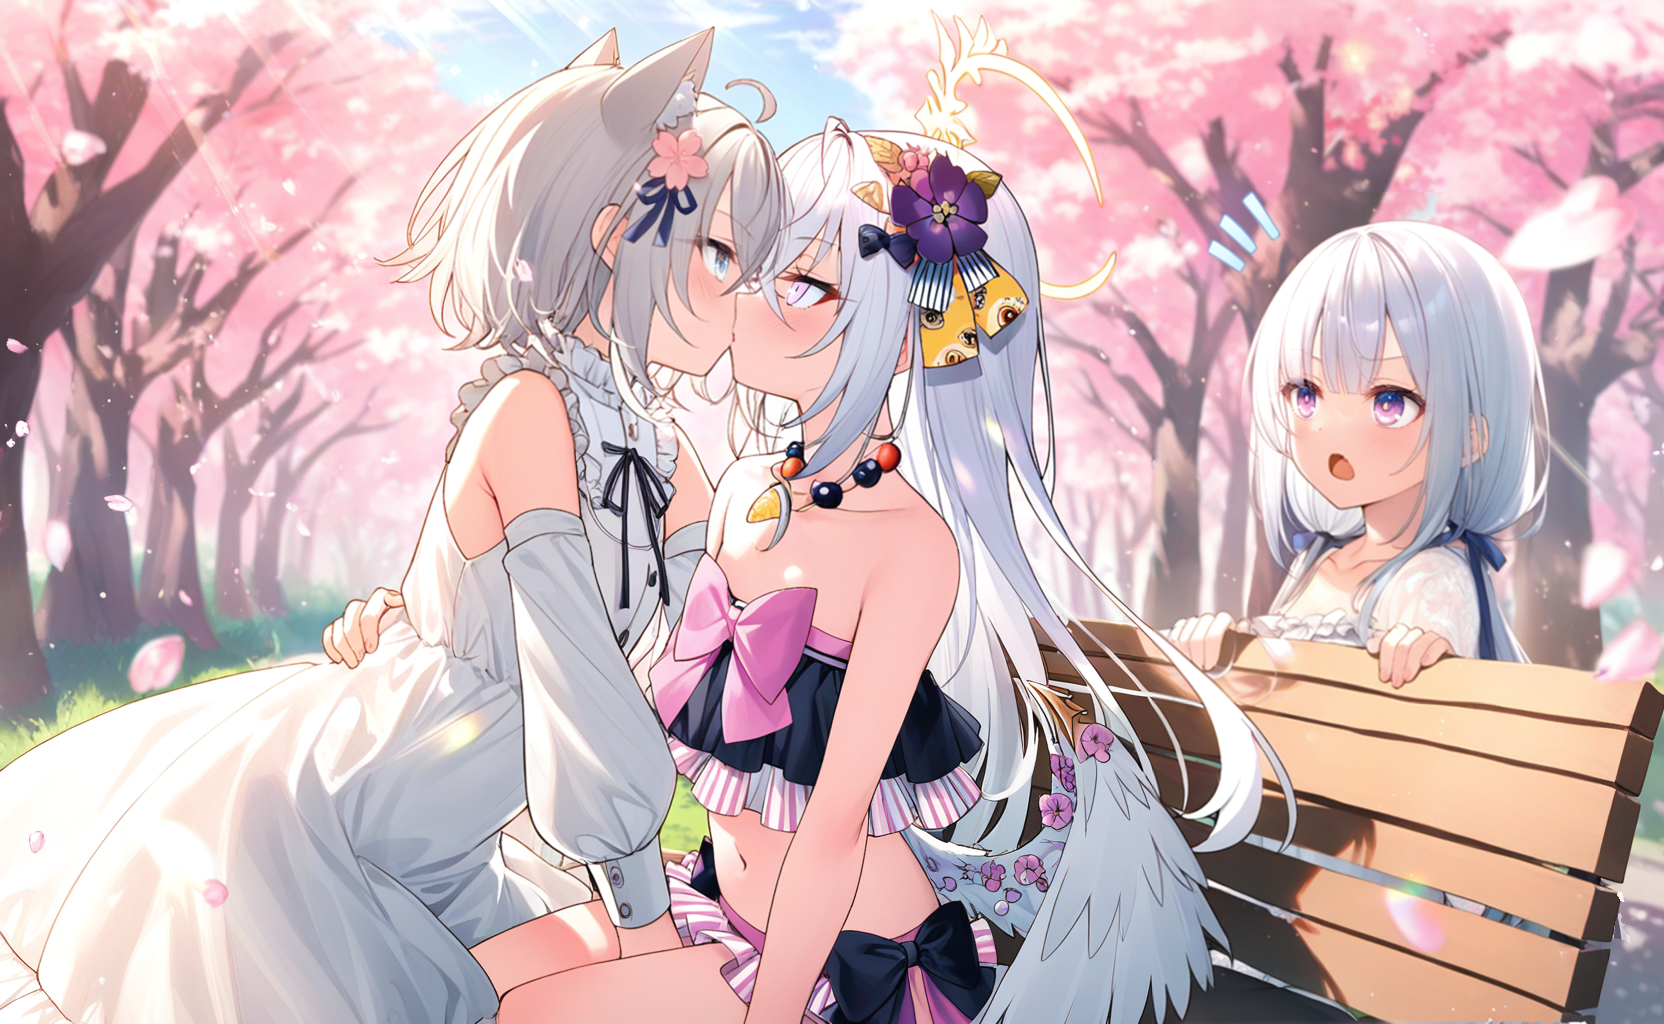
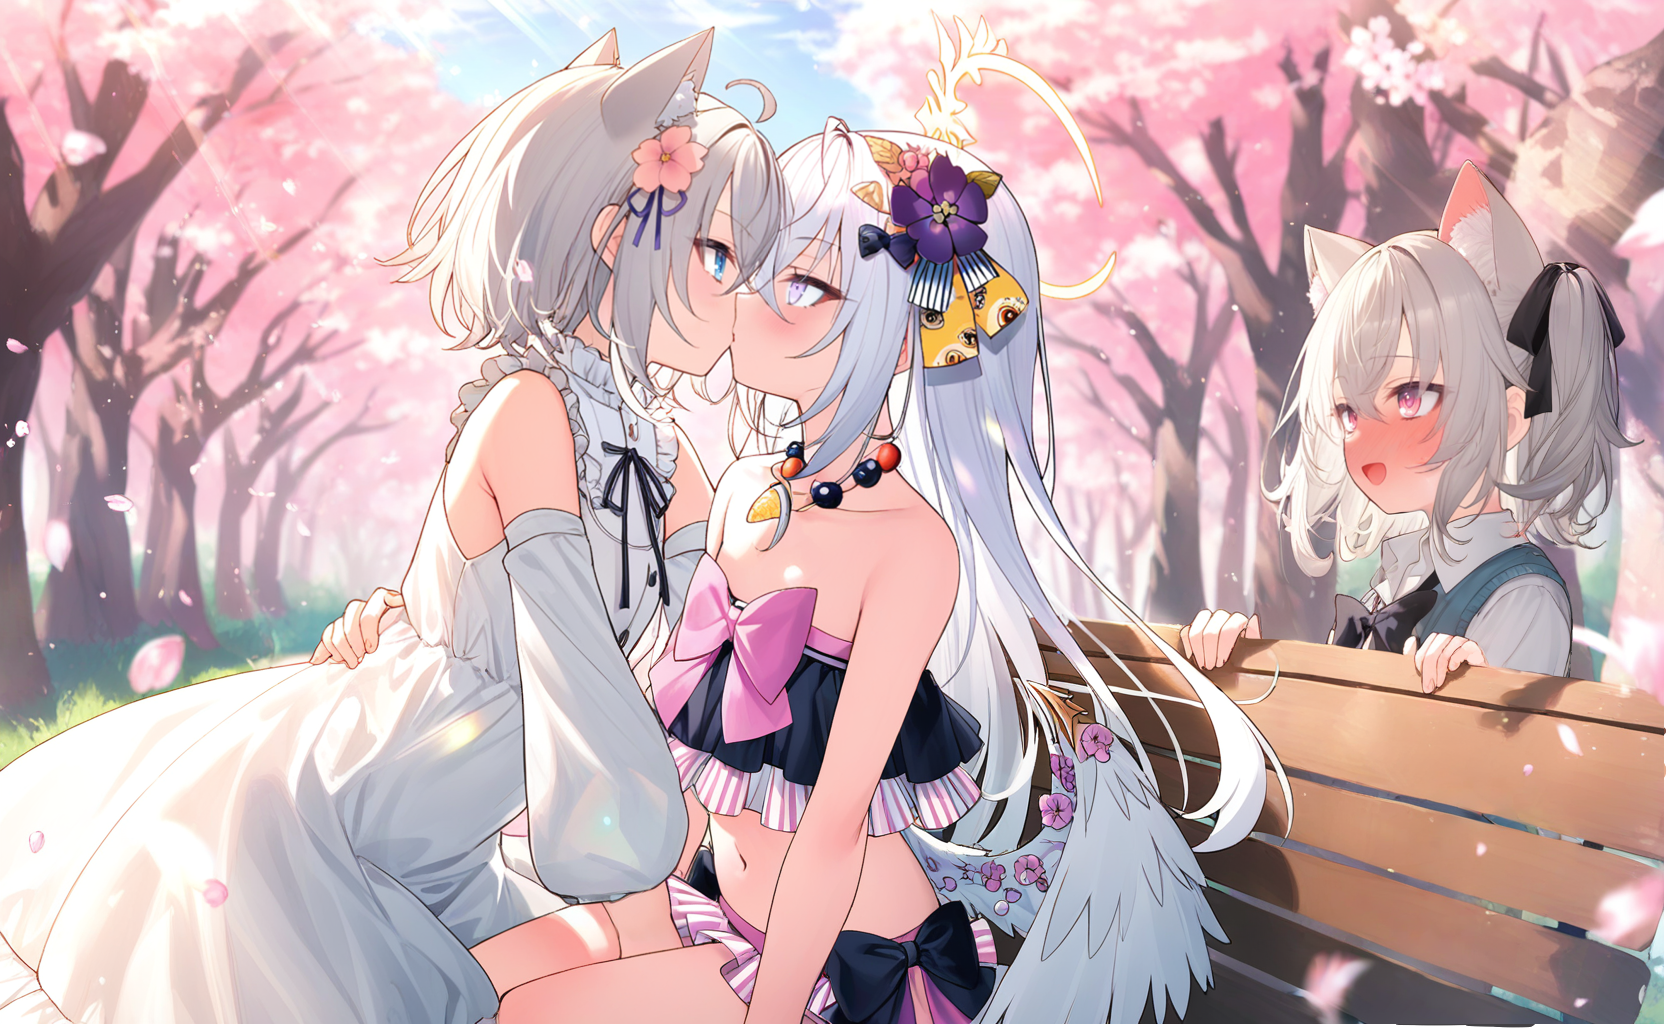
╥﹏╥

diff --git a/docs/guide/invokeai/canvas.md b/docs/guide/invokeai/canvas.md
@@ -414,11 +414,11 @@ azusa \(blue archive\),solo,halo,ahoge,hair flower,hair ornament,flower,very lon
 正向提示词修改一下。
 
 ```
-1girl,solo,
-long hair,silver hair,blue hair,cute,purple eyes,low twintails,short sleeves,white dress,shirt,blue skirt,blue ribbon,see-through,see-through sleeves,collarbone,frills,small breasts,
+1girl,loli,solo,hair ribbon,cat ears,animal ear fluff,hair ribbon,pink eyes,grey hair,short hair,two side up,bangs,hair between eyes,blush,fang,long sleeves,bow,white shirt,puffy sleeves,collared shirt,sleeves past wrists,black bow,puffy long sleeves,blue vest,sweater vest,pleated skirt,black skirt,
 peeking out,open mouth,looking away,standing, 
 outdoors,blue sky,light rays,scenery,tree,flower,falling petals,cherry blossoms,
 upper body,close-up,from side,
+masterpiece, best quality, newest,
 ```
 
 ![move_bbox_to_paint_another_image](../../assets/images/guide/invokeai/canvas/move_bbox_to_paint_another_image.png)
@@ -430,7 +430,6 @@ upper body,close-up,from side,
 这张人物的角度很合适，就选择这张保存到画布中。
 
 保存后该图片将成为新的**栅格层**，在右侧的图层面板选择该**栅格层**，在右侧的图层面板或者画布内右键，选择**元素选取(Select Object)**。这时使用该功能将该人物选取出来。
-
 
 ![use_select_object_to_select_character_in_image](../../assets/images/guide/invokeai/canvas/use_select_object_to_select_character_in_image.png)
 
@@ -456,6 +455,10 @@ scenery,tree,flower,falling petals,cherry blossoms,bench,
 ```
 
 ![add_regional_prompt_and_outpaint](../../assets/images/guide/invokeai/canvas/add_regional_prompt_and_outpaint.png)
+
+再将**去噪强度**设置为比较高的值。
+
+<!-- ╥﹏╥ -->
 
 尝试几次 **Invoke** 选择比较好的效果。
 
@@ -509,7 +512,9 @@ scenery,tree,flower,falling petals,cherry blossoms,bench,
 
 这就是一张由 InvokeAI 创作出来的壁纸，作者很满意。
 
-~~诶嘿嘿，在公园里和小梓做那种事被发现……真的好刺激……（作者在发电）~~
+<!-- ╥﹏╥ -->
+
+~~诶嘿嘿，在公园里和小梓做那种事被 Hana 酱发现……真的好刺激……（作者在发电）~~
 
 
 ### 线稿上色与风格迁移
